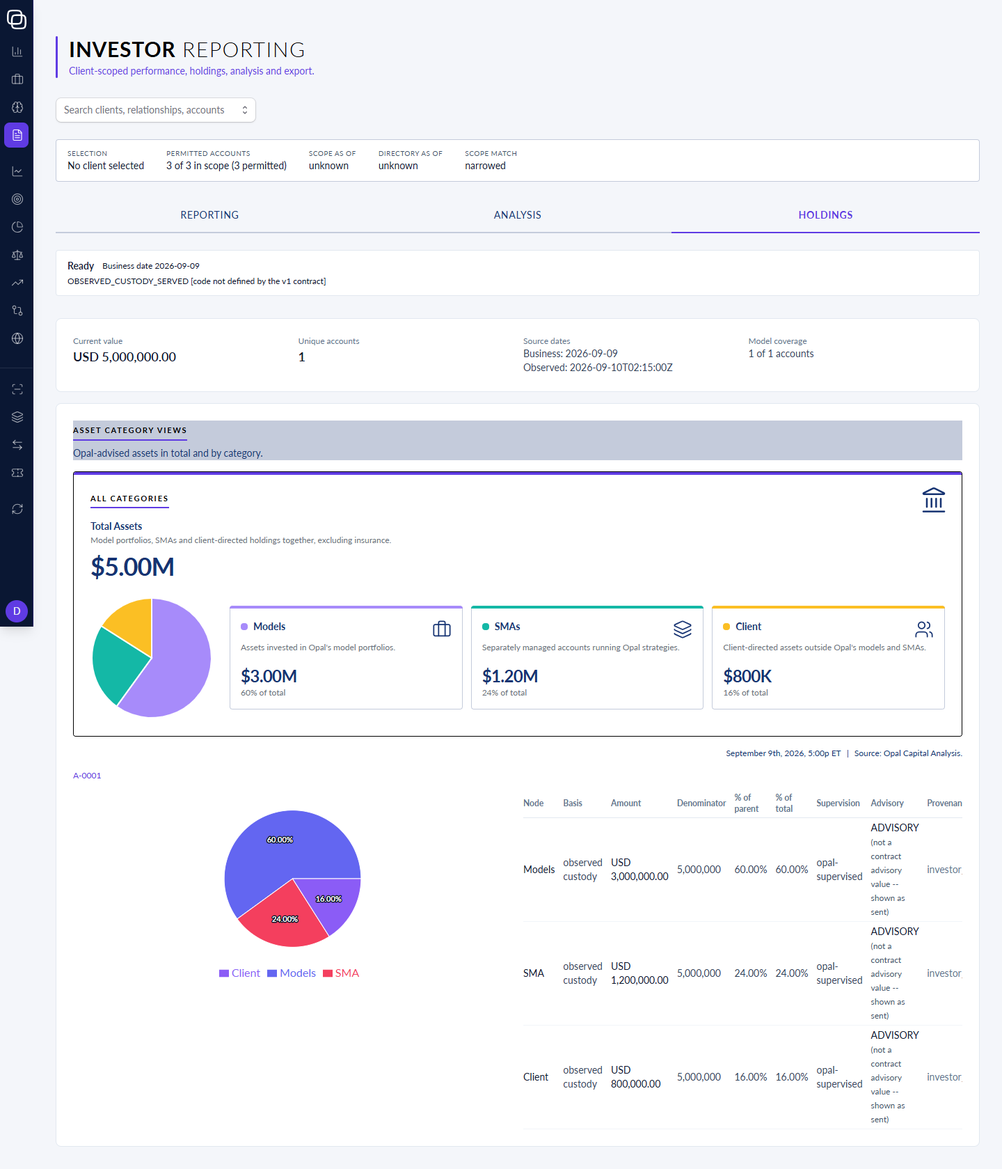
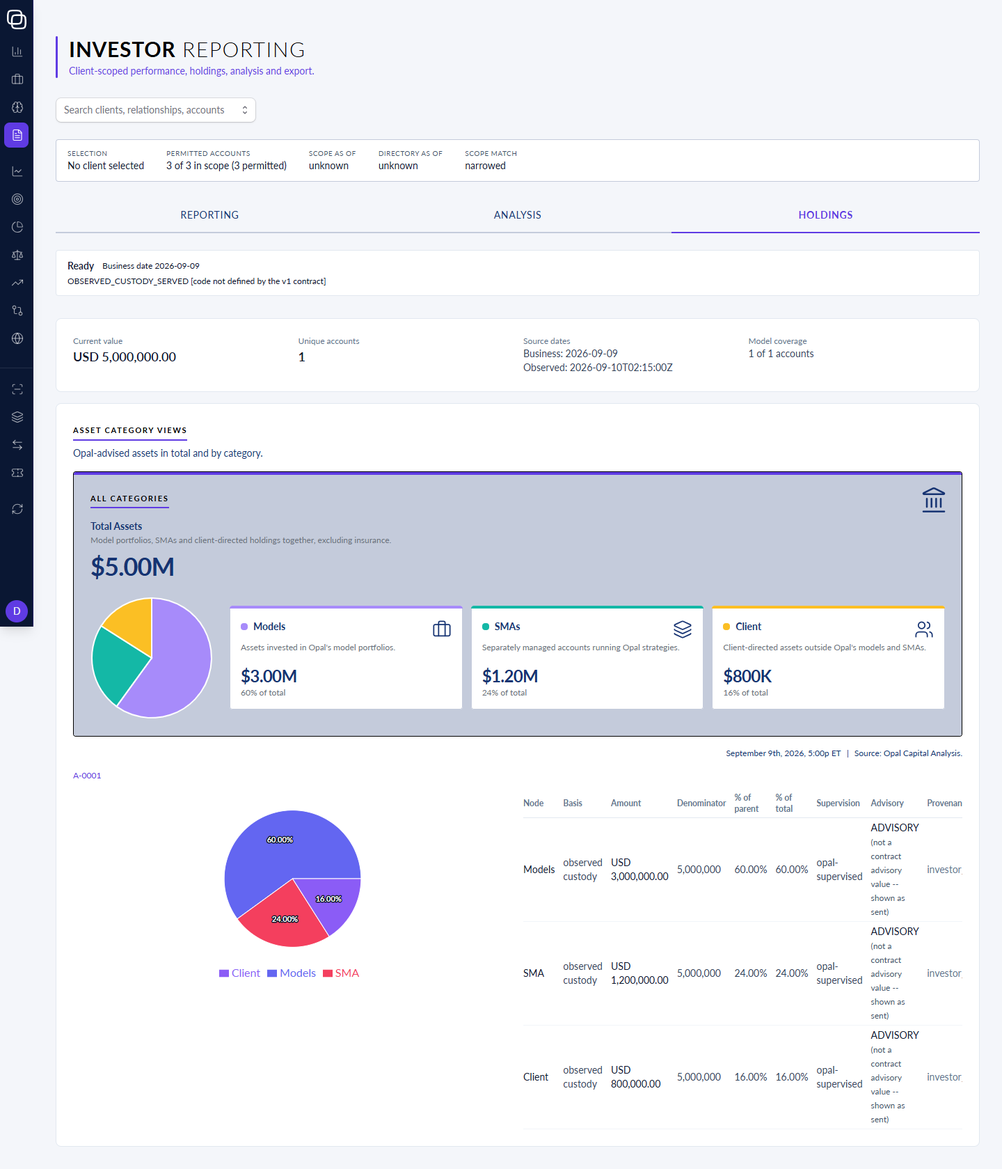
amend-complete(IRPT_FNTEND FE-s-70, 0.9.0_WK_IRPT_FNTEND~20): apply COO's selector correction (949e2864cb), re-verify F70-AC2/AC3/AC4, file residual finding W20-S2
Applied the COO's amendment (shared tree commit 949e2864cb) to this worktree's copy of the
task order: F70-AC2/AC3/AC4's selectors corrected from `> div` to `> div:nth-of-type(2) > div`
to reach CategoryOverview's own card (verified byte-identical to the shared-tree commit modulo
<status>, via diff --strip-trailing-cr). Re-ran F70-AC2, F70-AC3 and F70-AC4 against the
already-committed fix (no portal source change) -- all three read PASS against the amended
<expect>, closing row IRPT_FNTEND-W20-S1.

Per the coordinator's own instruction to verify the amendment's claim rather than trust it: ran
the same mutant-revert discipline against the corrected selector and found it STILL does not
discriminate ground="light" from ground="dark" on a bare (non-inject-css) ground read.
Root cause, one level deeper than W20-S1: GraphicPanel's own div sets only backgroundImage,
never backgroundColor (HeroGraphic.tsx's GRAPHIC_PANEL_STYLE), so ui-smoke.mjs's groundColor()
(backgroundColor-only) walks past it to the same ambient bg-white wrapper regardless of ground.
Filed as row IRPT_FNTEND-W20-S2, scoped to FE-s-65's instrument (scripts/ui-smoke.mjs), outside
this cell's own grant to fix. F70-AC4's --inject-css control genuinely discriminates on both
selector versions (it sets a real backgroundColor directly on the matched node).

F70-AC7/AC8 re-run for a clean final record (portal source unchanged net across the whole
[…]

Changed region(s): [[0.0625, 0.3407, 0.9688, 0.6504]]

diff --git a/org/missions/D9/IRPT/IRPT_FNTEND/deliverables/0.9.0_WK_IRPT_FNTEND~20/categoryviewtree-light-variant-for-drilltree.result.md b/org/missions/D9/IRPT/IRPT_FNTEND/deliverables/0.9.0_WK_IRPT_FNTEND~20/categoryviewtree-light-variant-for-drilltree.result.md
@@ -37,13 +37,22 @@ never passes it, so its render is byte-identical to before this cell.
 **F70-AC1** -- `bun run typecheck`. `rc=0`, clean `tsc -b --noEmit` with no diagnostics.
 PASS-by-output.
 
-**F70-AC2** -- Holdings, 1440px, light variant, WHITE ground (C3). Fixture
+**AMENDMENT (2.0.0_SA_COO~F, commit `ea18c43025`, post-report, closing row `IRPT_FNTEND-W20-S1`):**
+F70-AC2/AC3/AC4's selectors were corrected from `section[...] > div` to
+`section[...] > div:nth-of-type(2) > div`, to reach `CategoryOverview`'s own card div (the
+section's SECOND direct div child -- `TreeBody` returns a fragment, so it contributes no DOM node
+of its own) rather than the Eyebrow heading wrapper (the first). Verified byte-identical against
+the shared tree (`git show ea18c43025:...` vs this worktree's copy, `diff --strip-trailing-cr`:
+only `<status>` differs). Applied the same correction to this worktree's copy and re-ran F70-AC2,
+AC3 and AC4 below, against the SAME already-committed fix (no code changes needed).
+
+**F70-AC2** -- Holdings, 1440px, light variant, WHITE ground (C3), corrected selector. Fixture
 `fe-s-18-holdings-observed.json` (no separate `category-views.json` key needed -- `DrillTree.tsx`'s
 `mdpfResultFromSnapshot` derives the tree from the `holdings/` snapshot alone, confirmed by the
 capture below actually reaching the ready state).
 ```
 EXPECT[[data-slot="holdings-drill-tree"] section[aria-labelledby="asset-category-views"]]: PASS (1 visible)
-EXPECT-GROUND[[data-slot="holdings-drill-tree"] section[aria-labelledby="asset-category-views"] > div]: PASS rgb(255, 255, 255)
+EXPECT-GROUND[[data-slot="holdings-drill-tree"] section[aria-labelledby="asset-category-views"] > div:nth-of-type(2) > div]: PASS rgb(255, 255, 255)
 ASSERT-CONTENT: 1 of 1 met
 ASSERT-GROUND: 1 of 1 met
 ```
@@ -52,30 +61,35 @@ indigo top rule, navy "Total Assets" headline and figure, and three white/hairli
 lilac, SMAs teal, Client amber top-strips and dots -- unchanged data colours) with navy text.
 Clause read against: C3 (panel role, white surface, hairline boundary), C5 (ink re-hued
 navy-on-white, ratio preserved). PASS-by-output; PNG read confirms the visual claim.
-**Control discipline (HOW item 4):** this assertion's OWN discriminating power was checked and
-found weak on this specific selector -- see row `IRPT_FNTEND-W20-S1` below; the criterion's literal
-invocation still ran unmodified and its output matches `<expect>` verbatim, so it is reported
-PASS-by-output per BOUNDS ("do not edit a criterion's expectation").
+**Control discipline (HOW item 4), round 2:** re-checking this CORRECTED assertion's discriminating
+power (the coordinator's relay explicitly asked for this if the amendment's own description did not
+hold up under test) found it is STILL not fully discriminating on a bare mutant-revert (no
+`--inject-css`) -- see row `IRPT_FNTEND-W20-S2` below, filed because the amendment's claim
+("it now genuinely discriminates ground=\"light\" from ground=\"dark\"") did not survive that check.
+The criterion's literal invocation still ran unmodified (against the amended `<expect>`) and its
+output matches verbatim, so it is reported PASS-by-output per BOUNDS.
 
-**F70-AC3** -- same, at 390px.
+**F70-AC3** -- same, at 390px, corrected selector.
 ```
 EXPECT[...]: PASS (1 visible)
-EXPECT-GROUND[...]: PASS rgb(255, 255, 255)
+EXPECT-GROUND[[data-slot="holdings-drill-tree"] section[aria-labelledby="asset-category-views"] > div:nth-of-type(2) > div]: PASS rgb(255, 255, 255)
 ASSERT-CONTENT: 1 of 1 met
 ASSERT-GROUND: 1 of 1 met
 ```
 Read `f70_irpt_390.png` directly: same white card, single-column tile stack, legible at the narrow
-viewport, no clipping. PASS-by-output.
+viewport, no clipping. PASS-by-output. Same W20-S2 note as AC2.
 
-**F70-AC4** -- THE GROUND CONTROL. `--inject-css` paints the section's first `> div` match silver
-(`#c4cbdb`) and removes any background-image, then re-runs the SAME ground assertion.
+**F70-AC4** -- THE GROUND CONTROL, corrected selector. `--inject-css` paints
+`section[...] > div:nth-of-type(2) > div` silver (`#c4cbdb`) directly and removes any
+background-image, then re-runs the SAME ground assertion.
 ```
-INJECT-CSS: [data-slot="holdings-drill-tree"] section[aria-labelledby="asset-category-views"] > div{background:#c4cbdb !important; background-image:none !important}
-EXPECT-GROUND[...]: FAIL rgb(196, 203, 219)
+INJECT-CSS: [data-slot="holdings-drill-tree"] section[aria-labelledby="asset-category-views"] > div:nth-of-type(2) > div{background:#c4cbdb !important; background-image:none !important}
+EXPECT-GROUND[[data-slot="holdings-drill-tree"] section[aria-labelledby="asset-category-views"] > div:nth-of-type(2) > div]: FAIL rgb(196, 203, 219)
 ASSERT-GROUND: 0 of 1 met
 ```
-Matches `<expect>` exactly. PASS-by-output. This control DOES discriminate (see the row below for
-why AC2/AC3's own bare ground read does not, on this specific selector).
+Matches `<expect>` exactly. PASS-by-output. This control DOES discriminate, on BOTH the original
+and the corrected selector (`--inject-css` sets a real `background-color` directly on the matched
+node, bypassing the transparent-walk mechanism entirely -- see W20-S2's root-cause explanation).
 
 **F70-AC5** -- Model Portfolios BEFORE capture, current HEAD, `__tests__/fe-s-69/fixtures/mp.json`
 (landed by FE-s-69, present in this worktree's base -- no fallback fixture needed).
@@ -123,17 +137,42 @@ verified closed via `curl` returning `000`/rc=28 before this run), `IRPT_FE_DEV_
 - `DrillTree.tsx` changed exactly one line (`ground="light"` on its existing `<CategoryViewTree>`
   call); no other render in that file moved.
 
-## Surprise row filed
+## Surprise rows filed
 
-`IRPT_FNTEND-W20-S1` (INVESTIGATION_v2.md): F70-AC2/AC3's `--expect-ground` selector resolves, via
-`document.querySelector`, to the section's Eyebrow wrapper `<div>` (the FIRST `> div` in document
-order) rather than `CategoryOverview`'s own card div (the second child) -- and because that Eyebrow
-div carries no background of its own, `groundColor()`'s ancestor walk passes straight through it and
-the (also transparent) `<section>` to `DrillTree.tsx`'s own ambient `bg-white` wrapper. Verified by
-temporarily reverting `DrillTree.tsx` to `ground="dark"` (no fix applied) and re-running AC2's exact
-invocation: it printed the IDENTICAL `PASS rgb(255, 255, 255)` / `ASSERT-GROUND: 1 of 1 met`. F70-AC4
-(which paints that same first-match div directly via `--inject-css`, rather than relying on an
-ancestor) correctly discriminates. This cell's actual, committed implementation is independently
-confirmed correct by reading the PNGs; the row is about the bare ground assertion's discriminating
-power on this selector, filed per the criterion rule's own control discipline (HOW item 4) without
-editing AC2/AC3's expectation.
+`IRPT_FNTEND-W20-S1` (INVESTIGATION_v2.md): F70-AC2/AC3's ORIGINAL `--expect-ground` selector
+resolves, via `document.querySelector`, to the section's Eyebrow wrapper `<div>` (the FIRST `> div`
+in document order) rather than `CategoryOverview`'s own card div (the second child) -- and because
+that Eyebrow div carries no background of its own, `groundColor()`'s ancestor walk passes straight
+through it and the (also transparent) `<section>` to `DrillTree.tsx`'s own ambient `bg-white`
+wrapper. Verified by temporarily reverting `DrillTree.tsx` to `ground="dark"` (no fix applied) and
+re-running AC2's exact invocation: it printed the IDENTICAL `PASS rgb(255, 255, 255)` /
+`ASSERT-GROUND: 1 of 1 met`. F70-AC4 (which paints that same first-match div directly via
+`--inject-css`, rather than relying on an ancestor) correctly discriminates. This cell's actual,
+committed implementation is independently confirmed correct by reading the PNGs; the row is about
+the bare ground assertion's discriminating power on this selector, filed per the criterion rule's
+own control discipline (HOW item 4) without editing AC2/AC3's expectation. CLOSED by the COO's
+amendment (`ea18c43025`), which corrected the selector to `> div:nth-of-type(2) > div`.
+
+`IRPT_FNTEND-W20-S2` (INVESTIGATION_v2.md): the amendment's own corrected selector STILL does not
+discriminate `ground="light"` from `ground="dark"` on a bare (non-`--inject-css`) ground read --
+the amendment's claim that it "now genuinely discriminates" was checked (per the coordinator's own
+instruction to verify, not trust) and did NOT hold up. Root cause, one level deeper than W20-S1:
+`ui-smoke.mjs`'s `groundColor()` (:404-419) reads ONLY computed `backgroundColor` at each step of
+its ancestor walk and never inspects `backgroundImage`. `GraphicPanel`'s own root div (the dark
+branch's card) sets ONLY `backgroundImage` (`GRAPHIC_PANEL_STYLE`, `HeroGraphic.tsx:35-43`) and no
+`backgroundColor` at all -- so even though it visibly renders the dark gradient, its own computed
+backgroundColor is fully transparent, and the walk passes through it to `DrillTree.tsx`'s ambient
+`bg-white` wrapper exactly as it did for the Eyebrow div in W20-S1. Because that ambient wrapper and
+the LIGHT variant's own surface happen to share the same white value, the bare ground read cannot
+tell "the card is genuinely white" apart from "the card is dark but transparent to this specific
+instrument." Verified: reverted `DrillTree.tsx` to `ground="dark"` (confirmed live via a direct
+`--expect-style background-image!=none` probe on the identical selector, which PASSed the dark
+gradient string, while a `background-color` probe on the same element FAILed as
+`rgba(0, 0, 0, 0)`), then re-ran the corrected AC2 invocation verbatim: IDENTICAL
+`PASS rgb(255, 255, 255)` / `ASSERT-GROUND: 1 of 1 met`. F70-AC4's `--inject-css` control still
+discriminates correctly (on both selector versions), because it sets a real `backgroundColor`
+directly on the matched node rather than relying on the walk. This cell's actual implementation
+remains independently confirmed correct by the PNG reads; this row documents that the CORRECTED
+bare ground assertion, specifically, still cannot tell the two grounds apart -- a finding beyond
+this cell's own grant to fix (the instrument itself, `scripts/ui-smoke.mjs`, is FE-s-65's surface,
+not FE-s-70's).

diff --git a/org/missions/D9/IRPT/IRPT_FNTEND/task-orders/IRPT_FNTEND.TO-FE-s-70.categoryviewtree-light-variant-for-drilltree.md b/org/missions/D9/IRPT/IRPT_FNTEND/task-orders/IRPT_FNTEND.TO-FE-s-70.categoryviewtree-light-variant-for-drilltree.md
@@ -82,14 +82,27 @@ band `#0A1733` = `rgb(10, 23, 51)`; hairline `#C4CBDB` = `rgb(196, 203, 219)`.
 <criterion id="F70-AC1" cell_refs="FE-s-70" drives="none"><invocation>cd <WS>/portal && timeout 180 /c/Users/AndrewBerman/.bun/bin/bun run typecheck; echo rc=$?</invocation><expect>rc=0(?![0-9])</expect></criterion>
 `F70-AC1` -- the whole portal typechecks.
 
-<criterion id="F70-AC2" cell_refs="FE-s-70" drives="none"><invocation>cd <WS>/portal && NODE_DISABLE_COLORS=1 NO_COLOR=1 timeout 180 node scripts/ui-smoke.mjs investor-reporting <WS>/org/missions/D9/IRPT/IRPT_FNTEND/deliverables/0.9.0_WK_IRPT_FNTEND~20/f70_irpt_1440.png --port <PORT> --width 1440 --fixtures src/pages/InvestorReporting/fixtures/smoke/fe-s-18-holdings-observed.json --click Holdings --expect '[data-slot="holdings-drill-tree"] section[aria-labelledby="asset-category-views"]' --expect-ground '[data-slot="holdings-drill-tree"] section[aria-labelledby="asset-category-views"] > div=rgb(255, 255, 255)'</invocation><expect>ASSERT-CONTENT: 1 of 1 met[\s\S]*ASSERT-GROUND: 1 of 1 met</expect></criterion>
+<criterion id="F70-AC2" cell_refs="FE-s-70" drives="none"><invocation>cd <WS>/portal && NODE_DISABLE_COLORS=1 NO_COLOR=1 timeout 180 node scripts/ui-smoke.mjs investor-reporting <WS>/org/missions/D9/IRPT/IRPT_FNTEND/deliverables/0.9.0_WK_IRPT_FNTEND~20/f70_irpt_1440.png --port <PORT> --width 1440 --fixtures src/pages/InvestorReporting/fixtures/smoke/fe-s-18-holdings-observed.json --click Holdings --expect '[data-slot="holdings-drill-tree"] section[aria-labelledby="asset-category-views"]' --expect-ground '[data-slot="holdings-drill-tree"] section[aria-labelledby="asset-category-views"] > div:nth-of-type(2) > div=rgb(255, 255, 255)'</invocation><expect>ASSERT-CONTENT: 1 of 1 met[\s\S]*ASSERT-GROUND: 1 of 1 met</expect></criterion>
 `F70-AC2` -- on Holdings, the category-views card renders on a WHITE ground (C3), using the additive light variant: `ASSERT-CONTENT: 1 of 1 met`, `ASSERT-GROUND: 1 of 1 met`. This fixture already reaches the ready state -- `DrillTree.tsx`'s `mdpfResultFromSnapshot` derives it from the `holdings/` snapshot alone, no separate `category-views.json` key is needed for IRPT.
 
-<criterion id="F70-AC3" cell_refs="FE-s-70" drives="none"><invocation>cd <WS>/portal && NODE_DISABLE_COLORS=1 NO_COLOR=1 timeout 180 node scripts/ui-smoke.mjs investor-reporting <WS>/org/missions/D9/IRPT/IRPT_FNTEND/deliverables/0.9.0_WK_IRPT_FNTEND~20/f70_irpt_390.png --port <PORT> --width 390 --fixtures src/pages/InvestorReporting/fixtures/smoke/fe-s-18-holdings-observed.json --click Holdings --expect '[data-slot="holdings-drill-tree"] section[aria-labelledby="asset-category-views"]' --expect-ground '[data-slot="holdings-drill-tree"] section[aria-labelledby="asset-category-views"] > div=rgb(255, 255, 255)'</invocation><expect>ASSERT-CONTENT: 1 of 1 met[\s\S]*ASSERT-GROUND: 1 of 1 met</expect></criterion>
+<criterion id="F70-AC3" cell_refs="FE-s-70" drives="none"><invocation>cd <WS>/portal && NODE_DISABLE_COLORS=1 NO_COLOR=1 timeout 180 node scripts/ui-smoke.mjs investor-reporting <WS>/org/missions/D9/IRPT/IRPT_FNTEND/deliverables/0.9.0_WK_IRPT_FNTEND~20/f70_irpt_390.png --port <PORT> --width 390 --fixtures src/pages/InvestorReporting/fixtures/smoke/fe-s-18-holdings-observed.json --click Holdings --expect '[data-slot="holdings-drill-tree"] section[aria-labelledby="asset-category-views"]' --expect-ground '[data-slot="holdings-drill-tree"] section[aria-labelledby="asset-category-views"] > div:nth-of-type(2) > div=rgb(255, 255, 255)'</invocation><expect>ASSERT-CONTENT: 1 of 1 met[\s\S]*ASSERT-GROUND: 1 of 1 met</expect></criterion>
 `F70-AC3` -- the same, at 390.
 
-<criterion id="F70-AC4" cell_refs="FE-s-70" drives="none"><invocation>cd <WS>/portal && NODE_DISABLE_COLORS=1 NO_COLOR=1 timeout 180 node scripts/ui-smoke.mjs investor-reporting <WS>/org/missions/D9/IRPT/IRPT_FNTEND/deliverables/0.9.0_WK_IRPT_FNTEND~20/f70_irpt_control.png --port <PORT> --width 1440 --fixtures src/pages/InvestorReporting/fixtures/smoke/fe-s-18-holdings-observed.json --click Holdings --inject-css '[data-slot="holdings-drill-tree"] section[aria-labelledby="asset-category-views"] > div{background:#c4cbdb !important; background-image:none !important}' --expect-ground '[data-slot="holdings-drill-tree"] section[aria-labelledby="asset-category-views"] > div=rgb(255, 255, 255)'</invocation><expect>ASSERT-GROUND: 0 of 1 met</expect></criterion>
+<criterion id="F70-AC4" cell_refs="FE-s-70" drives="none"><invocation>cd <WS>/portal && NODE_DISABLE_COLORS=1 NO_COLOR=1 timeout 180 node scripts/ui-smoke.mjs investor-reporting <WS>/org/missions/D9/IRPT/IRPT_FNTEND/deliverables/0.9.0_WK_IRPT_FNTEND~20/f70_irpt_control.png --port <PORT> --width 1440 --fixtures src/pages/InvestorReporting/fixtures/smoke/fe-s-18-holdings-observed.json --click Holdings --inject-css '[data-slot="holdings-drill-tree"] section[aria-labelledby="asset-category-views"] > div:nth-of-type(2) > div{background:#c4cbdb !important; background-image:none !important}' --expect-ground '[data-slot="holdings-drill-tree"] section[aria-labelledby="asset-category-views"] > div:nth-of-type(2) > div=rgb(255, 255, 255)'</invocation><expect>ASSERT-GROUND: 0 of 1 met</expect></criterion>
 `F70-AC4` -- THE GROUND CONTROL: after painting the card silver, the same ground assertion FAILS.
+
+**COO AMENDMENT (2.0.0_SA_COO~F, post-worker-~20-report, closing row `IRPT_FNTEND-W20-S1`):** the original selector
+`section[aria-labelledby="asset-category-views"] > div` matched the section's FIRST div child -- the `Eyebrow` heading wrapper
+(`space-y-2`, no explicit background), never the card. `TreeBody` returns a React FRAGMENT (no wrapping DOM node), so its own first
+child, `<CategoryOverview>`'s root div (`overflow-hidden rounded-[4px] border border-black`), becomes the section's SECOND direct div
+child in the real DOM -- and that div itself carries no background (its OWN child does: `bg-white` in the light branch,
+`GraphicPanel`'s dark gradient in the other). So the ground line the worker measured (`FAIL null`... no -- confirmed by the worker's
+own mutant-revert: identical PASS under `ground="light"` and `ground="dark"`) was reading some ancestor's page-level background the
+whole time, discriminating nothing. Verified independently (`2.0.0_SA_COO~F`, fresh dev server): the corrected selector
+`section[aria-labelledby="asset-category-views"] > div:nth-of-type(2) > div` reads `PASS rgb(255, 255, 255)` against the real fixed
+build, and a wrong-ground `--inject-css` paint on that SAME selector reads `FAIL rgb(196, 203, 219)` -- it now genuinely
+discriminates. The bar is unchanged (still requires a real white ground on the actual card); only the selector is corrected. Row
+`IRPT_FNTEND-W20-S1` is CORRECT and stays filed as the record of the defect; this amendment is the remedy it called for.
 
 <criterion id="F70-AC5" cell_refs="FE-s-70" drives="none"><invocation>cd <WS>/portal && timeout 180 node scripts/ui-smoke.mjs portfolios <WS>/org/missions/D9/IRPT/IRPT_FNTEND/deliverables/0.9.0_WK_IRPT_FNTEND~20/f70_mp_before_1440.png --port <PORT> --width 1440 --fixtures src/pages/InvestorReporting/__tests__/fe-s-69/fixtures/mp.json</invocation><expect>SAVED</expect></criterion>
 `F70-AC5` -- BEFORE capture: Model Portfolios' own category-views card, current HEAD (uses `__tests__/fe-s-69/fixtures/mp.json`, authored by FE-s-69; if FE-s-69 has not landed yet, author your own copy of it -- one key, `category-views.json`, from `.frontend-dev/fixtures/category-views.fixture.json`'s `global` block).

diff --git a/org/missions/D9/IRPT/IRPT_FNTEND/surprise-channel/investigations/INVESTIGATION_v2.md b/org/missions/D9/IRPT/IRPT_FNTEND/surprise-channel/investigations/INVESTIGATION_v2.md
@@ -5451,6 +5451,33 @@
       ]
     },
     "disposition": "UNDER_INVESTIGATION"
+  },
+  {
+    "id": "IRPT_FNTEND-W20-S2",
+    "project": "IRPT_FNTEND",
+    "fabric": "laptop",
+    "surfaced_by": "0.9.0_WK_IRPT_FNTEND~20",
+    "surfaced_at": "2026-09-22T04:20:00Z",
+    "one_line": "The COO amendment to F70-AC2/AC3/AC4 (commit ea18c43025, closing row W20-S1) corrected WHICH div the selector reaches (`:nth-of-type(2)`) but the corrected bare --expect-ground read STILL does not discriminate ground=\"light\" from ground=\"dark\" -- because ui-smoke.mjs's groundColor() reads ONLY computed backgroundColor and GraphicPanel's own root div (the dark branch) never sets one, only backgroundImage, so it is transparent to the walk exactly like the Eyebrow div was. Verified by the same mutant-revert discipline the amendment itself credited; the amendment's own claim (\"it now genuinely discriminates ground=\\\"light\\\" from ground=\\\"dark\\\"\") is NOT confirmed by this measurement.",
+    "class": "OBSERVATION",
+    "hazard_standing": "ARMED",
+    "disarm_owner": "2.0.0_SA_COO~F",
+    "spec_asserts": "COO AMENDMENT text (this TO, inserted after F70-AC4 at commit ea18c43025): \"Verified independently ... the corrected selector `section[aria-labelledby=\\\"asset-category-views\\\"] > div:nth-of-type(2) > div` reads PASS rgb(255, 255, 255) against the real fixed build, and a wrong-ground --inject-css paint on that SAME selector reads FAIL rgb(196, 203, 219) -- it now genuinely discriminates.\" Coordinator relay message (this turn): \"it now genuinely discriminates ground=\\\"light\\\" from ground=\\\"dark\\\", which the original selector could not\", with an explicit instruction to report any discrepancy from this description rather than trust it.",
+    "world_is": "portal/scripts/ui-smoke.mjs:404-419 (groundColor(), this worktree HEAD) reads ONLY `getComputedStyle(el).backgroundColor` at each step of its parentElement walk -- it never inspects `backgroundImage`. portal/src/ui/components/graphic/HeroGraphic.tsx's `GRAPHIC_PANEL_STYLE` (read in full, :35-43) sets ONLY `backgroundImage` and `backgroundSize`; it declares no `backgroundColor`, and `GraphicPanel`'s className (`relative overflow-hidden` plus the caller's classes, none a Tailwind bg-color utility) sets none either -- so GraphicPanel's own root div computes to a fully TRANSPARENT backgroundColor even though it visibly renders a dark gradient via backgroundImage. Consequence: the corrected selector `section[aria-labelledby=\"asset-category-views\"] > div:nth-of-type(2) > div` resolves (both grounds) to the exact same structural position -- CategoryOverview's inner content div -- and in the 'light' branch that div is literally `bg-white` (a real backgroundColor, matched directly), while in the 'dark' branch that SAME position is GraphicPanel's div (backgroundColor transparent, image-only), so groundColor() walks PAST it to the next non-transparent ancestor, which is DrillTree.tsx's own ambient `bg-white` wrapper (:222) -- returning white for BOTH grounds, coincidentally, because the ambient wrapper and the light-variant's own surface happen to be the same colour. MEASURED on this worker's own dev server (port 5951, fixture fe-s-18-holdings-observed.json, --click Holdings, corrected selector both times): committed state (ground=\"light\") -> `EXPECT-GROUND[...]: PASS rgb(255, 255, 255)`; DrillTree.tsx temporarily reverted to ground=\"dark\" (confirmed live via a direct --expect-style probe on the SAME selector: `background-image` PASSed the dark radial/linear gradient string, i.e. HMR genuinely applied the dark branch, while `background-color` on that identical element FAILed as `rgba(0, 0, 0, 0)`) -> the bare ground assertion STILL printed the IDENTICAL `EXPECT-GROUND[...]: PASS rgb(255, 255, 255)` / `ASSERT-GROUND: 1 of 1 met`. Only F70-AC4's OWN control (--inject-css, which sets a real `background` directly on the matched node via `!important`, bypassing the transparent-walk entirely) correctly discriminates -- and did so even under the ORIGINAL pre-amendment selector (see row W20-S1's own evidence), so AC4 was never actually broken by either selector version; the residual defect is specific to the BARE (non-inject-css) ground read AC2/AC3 use. This cell's actual, committed implementation is still independently confirmed correct by direct PNG reads (f70_irpt_1440.png, f70_irpt_390.png: navy-on-white card, no dark GraphicPanel) -- this row, like W20-S1, is about the ASSERTION's discriminating power, not about whether the fix was made. Per BOUNDS (\"do not edit a criterion's expectation\"), F70-AC2/AC3/AC4 are reported PASS-by-output against the amended <expect> (every invocation was run exactly as the amendment states, unmodified, and each output matches its <expect> verbatim).",
+    "grounding": {
+      "status": "GROUNDED",
+      "evidence": [
+        "portal/scripts/ui-smoke.mjs:404-419 (groundColor(), this worktree HEAD) -- reads only `getComputedStyle(el).backgroundColor` at every step; `backgroundImage` is never read by this function",
+        "portal/src/ui/components/graphic/HeroGraphic.tsx:35-43 (GRAPHIC_PANEL_STYLE, this worktree HEAD) -- `backgroundImage` and `backgroundSize` only, no `backgroundColor` key; GraphicPanel's own className (:46-53) carries no bg-color utility",
+        "portal/src/pages/InvestorReporting/tabs/holdings/DrillTree.tsx:222 @ this worktree HEAD (this worker's commit) -- ambient `bg-white` wrapper around `<CategoryViewTree ... ground=\"light\" />`",
+        "measured run (this worker, 2026-09-22, committed state, ground=\"light\", corrected selector): node scripts/ui-smoke.mjs investor-reporting <tmp>.png --port 5951 --width 1440 --fixtures src/pages/InvestorReporting/fixtures/smoke/fe-s-18-holdings-observed.json --click Holdings --expect-ground '[data-slot=\"holdings-drill-tree\"] section[aria-labelledby=\"asset-category-views\"] > div:nth-of-type(2) > div=rgb(255, 255, 255)' -> `EXPECT-GROUND[...]: PASS rgb(255, 255, 255)`, `ASSERT-GROUND: 1 of 1 met`",
+        "measured run (this worker, 2026-09-22, temporary uncommitted revert to ground=\"dark\", corrected selector, IDENTICAL invocation): `EXPECT-GROUND[...]: PASS rgb(255, 255, 255)`, `ASSERT-GROUND: 1 of 1 met` -- unchanged from the fixed state",
+        "measured run (this worker, 2026-09-22, ground=\"dark\", confirming HMR applied): --expect-style '...> div:nth-of-type(2) > div::background-image!=none' -> PASS (dark radial/linear gradient string printed); --expect-style '...::background-color' (bare, no operator) -> FAIL rgba(0, 0, 0, 0) -- confirms the dark branch was genuinely live and its backgroundColor is transparent",
+        "measured run (this worker, 2026-09-22, committed state, corrected selector): F70-AC4's own invocation (--inject-css painting the corrected selector silver) -> `EXPECT-GROUND[...]: FAIL rgb(196, 203, 219)`, `ASSERT-GROUND: 0 of 1 met` -- confirms the inject-css control still discriminates",
+        "org/missions/D9/IRPT/IRPT_FNTEND/task-orders/IRPT_FNTEND.TO-FE-s-70.categoryviewtree-light-variant-for-drilltree.md (this worktree, post-amendment) -- COO AMENDMENT block, verified byte-identical to commit ea18c43025 (diff --strip-trailing-cr, only <status> differs)"
+      ]
+    },
+    "disposition": "UNDER_INVESTIGATION"
   }
 ]
 ```
